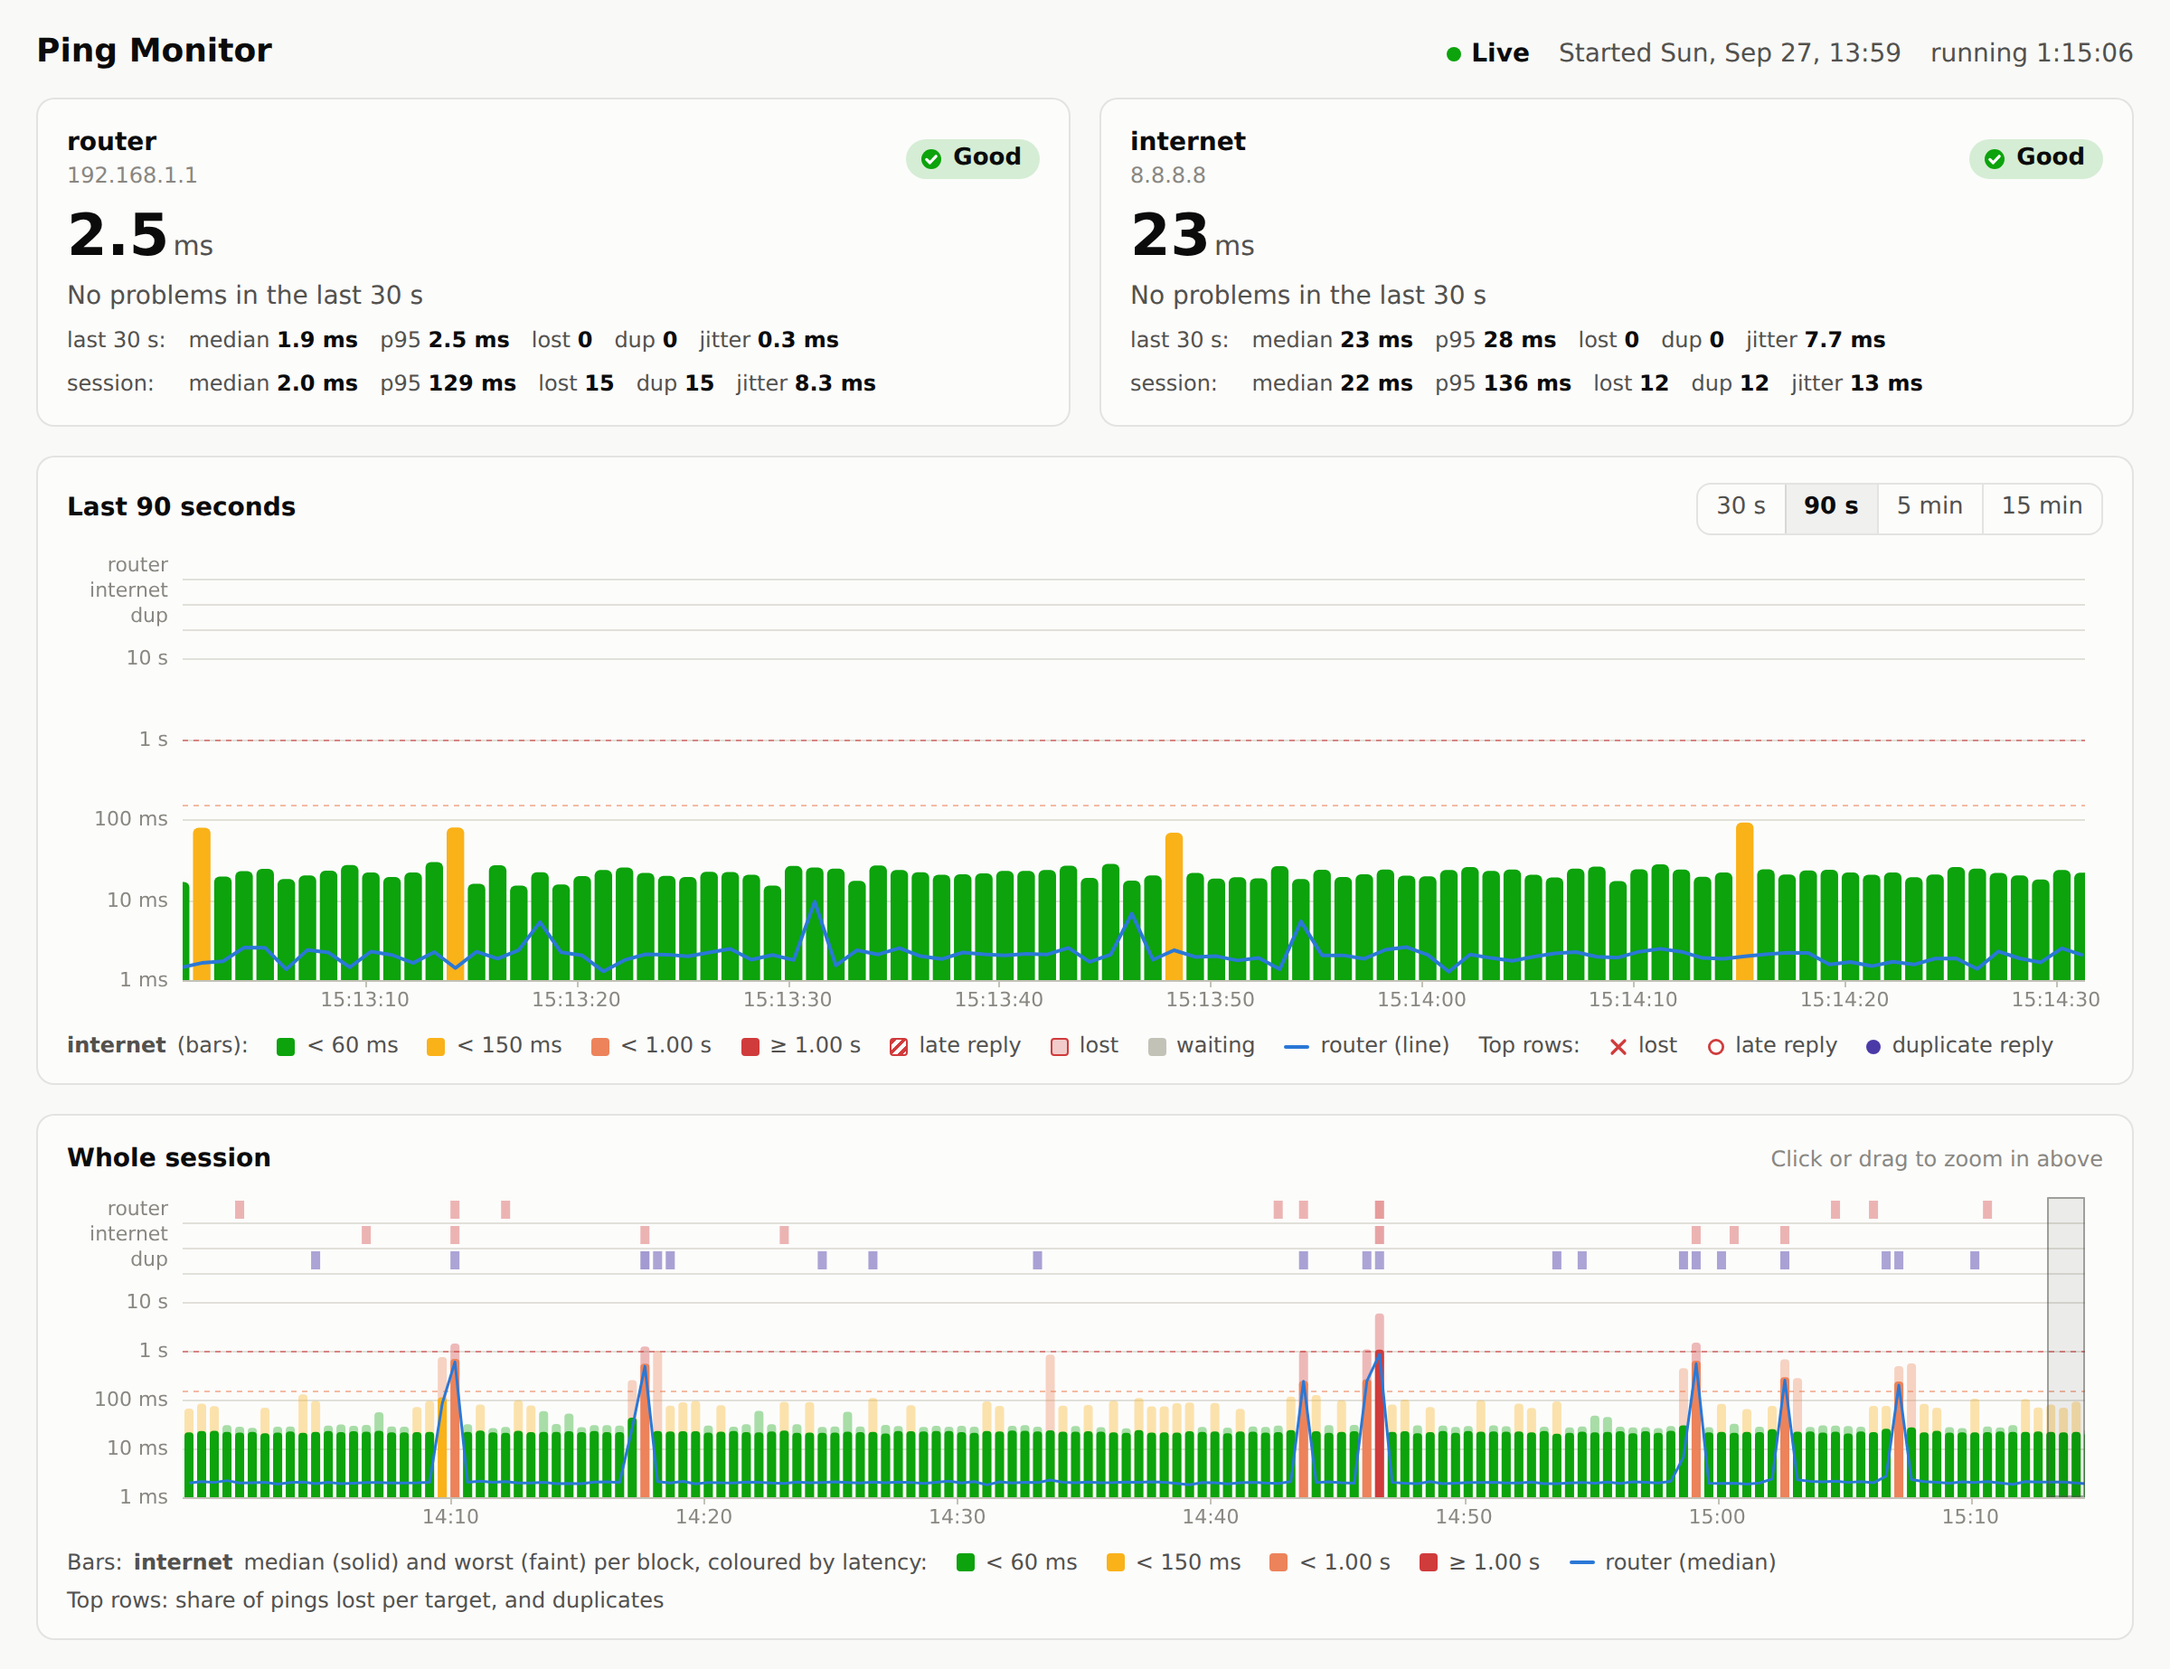
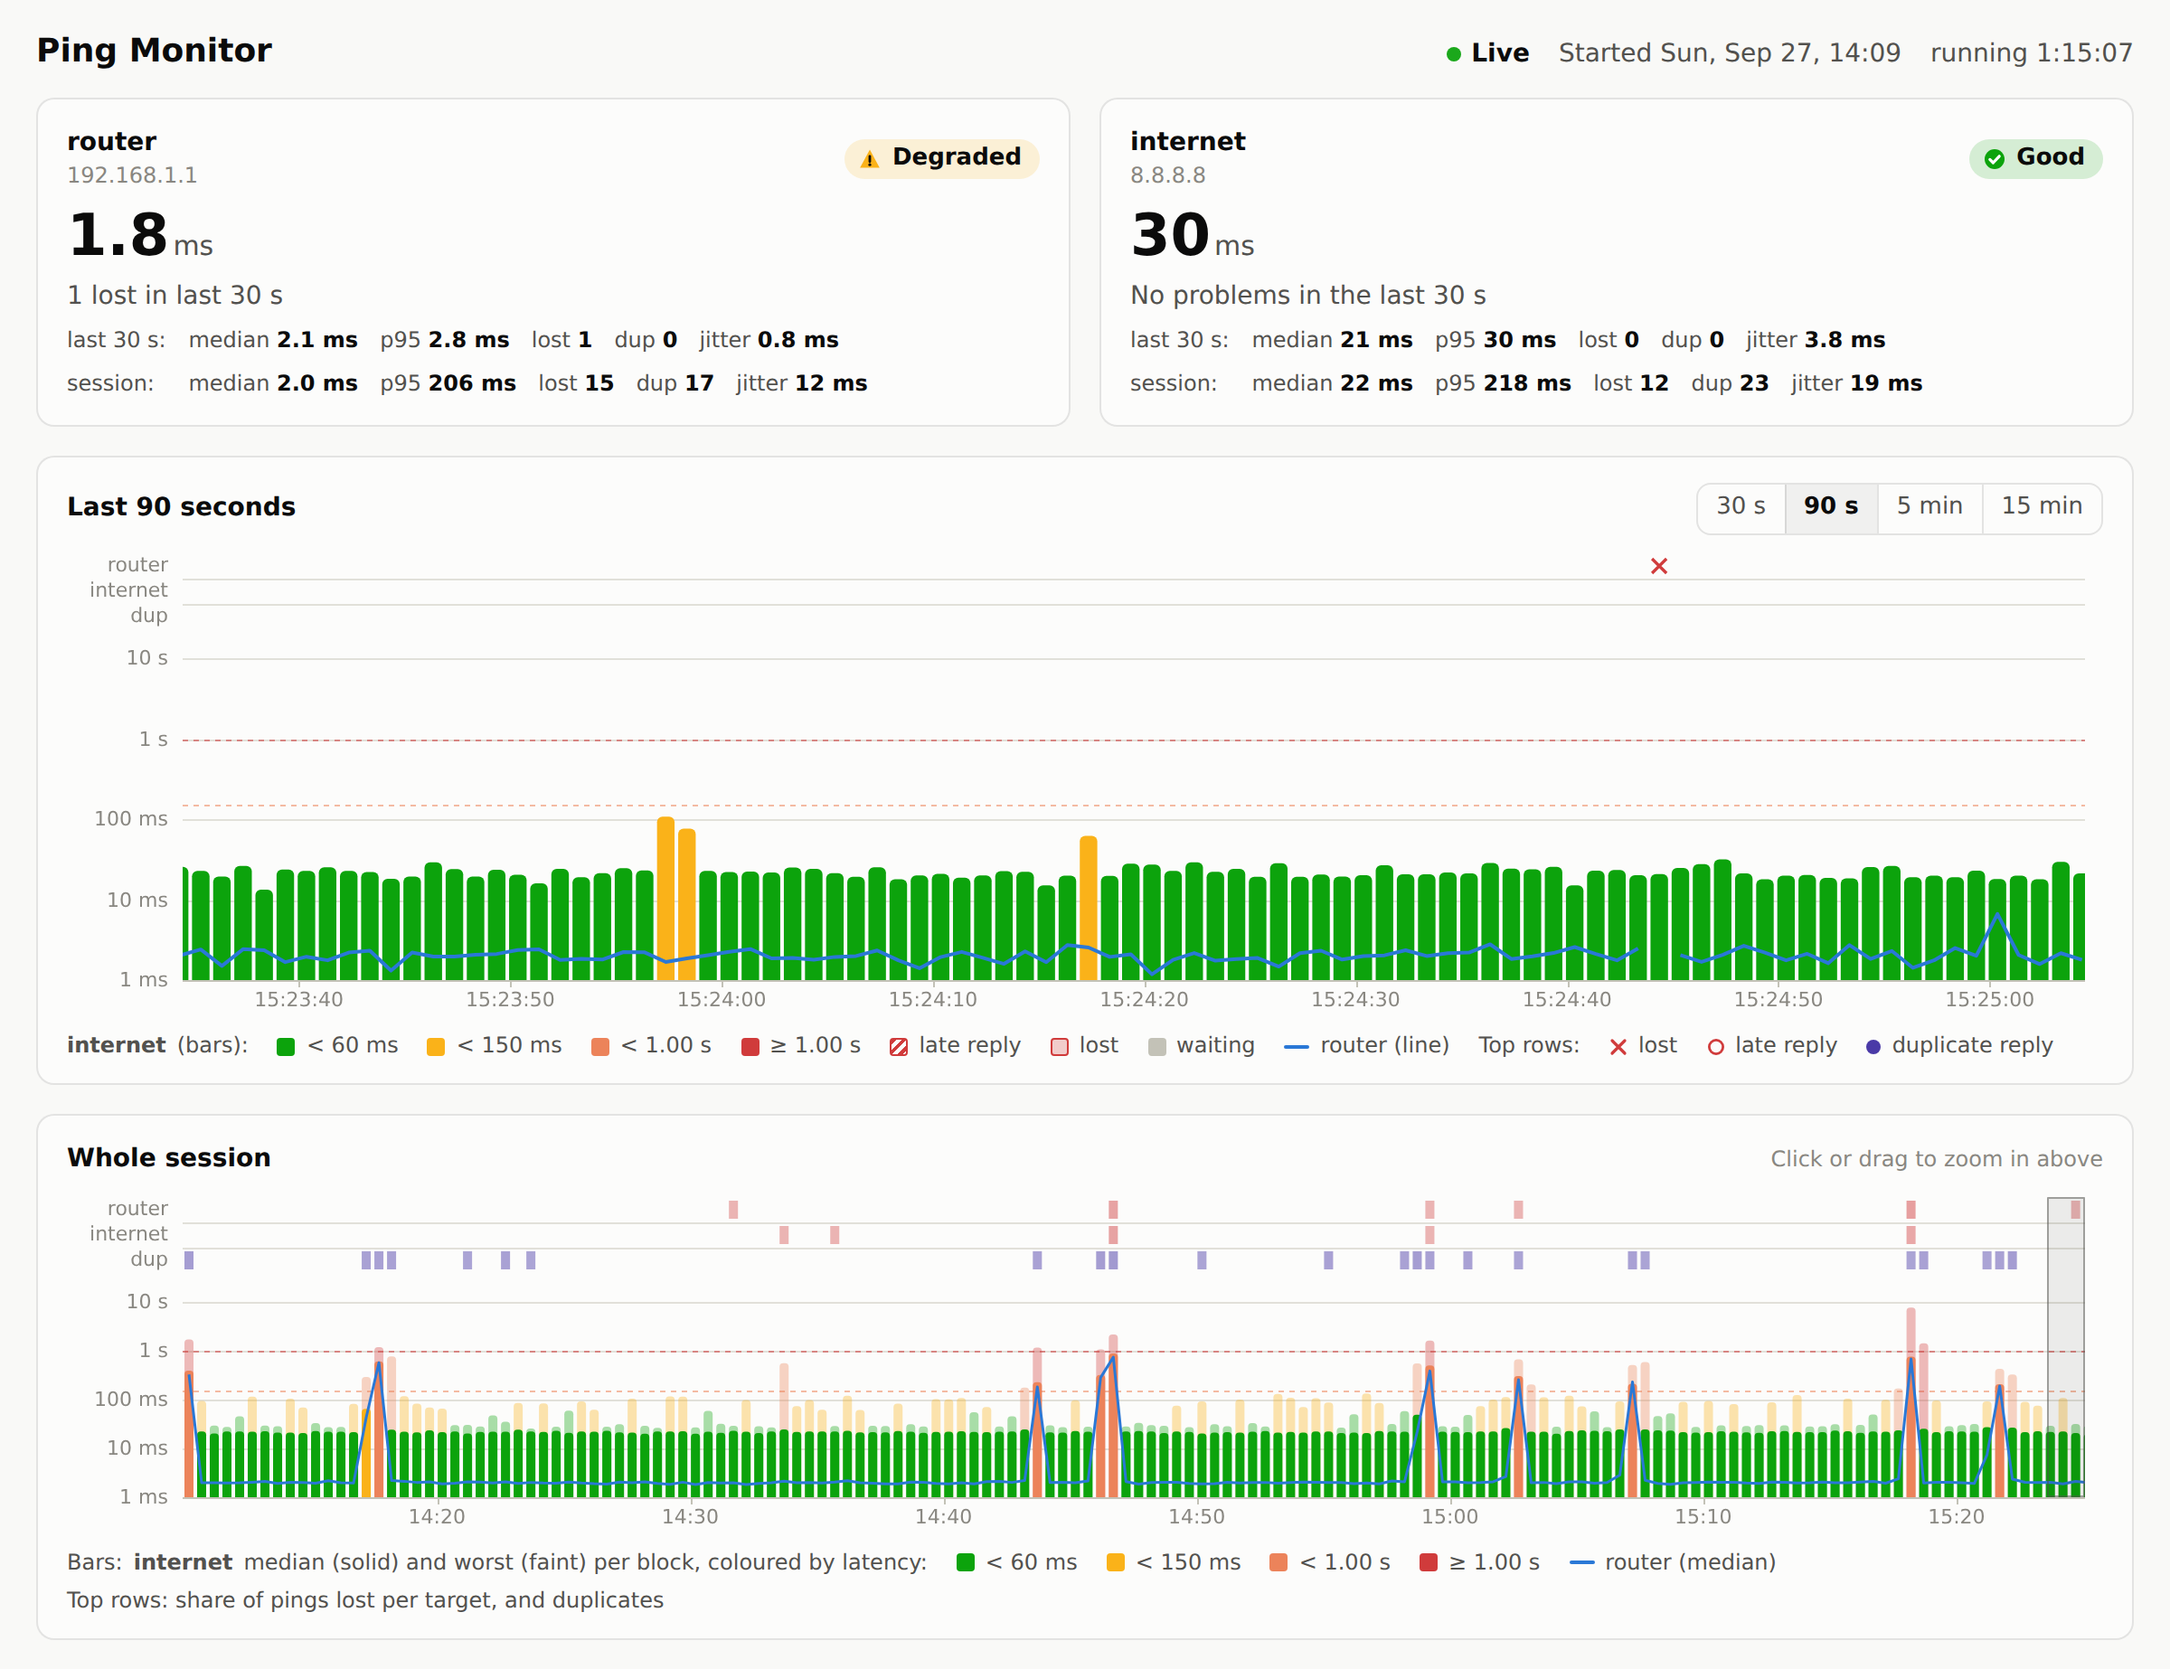
Drop the rule under the dup row; refresh screenshot
Only separate the event rows from each other, leaving clear space
between the dup row and the chart's top gridline. Also make the
detail chart's initial heading match the 90 s default.

Claude-Session: https://claude.ai/code/session_01JUaKifUeiQcXw6499C8MyJ

diff --git a/web/static/app.js b/web/static/app.js
@@ -379,9 +379,8 @@ function drawFrame(ctx, L, t0, t1, xs) {
   ctx.fillText('dup', L.left - 8, rowY(L, S.targets.length));
   ctx.strokeStyle = C.grid;
   ctx.lineWidth = 1;
-  for (let r = 0; r <= L.rows; r++) {
+  for (let r = 1; r < L.rows; r++) {
     const y = Math.round(L.rowTop + r * L.rowH) + 0.5;
-    if (r === 0) continue;
     ctx.beginPath(); ctx.moveTo(L.left, y); ctx.lineTo(L.left + L.pw, y); ctx.stroke();
   }
 

diff --git a/web/static/index.html b/web/static/index.html
@@ -22,7 +22,7 @@
 
   <section class="panel">
     <div class="panel-head">
-      <h2 id="detail-title">Last 60 seconds</h2>
+      <h2 id="detail-title">Last 90 seconds</h2>
       <div class="controls">
         <div class="seg" role="group" aria-label="Time span">
           <button data-span="30">30 s</button>
